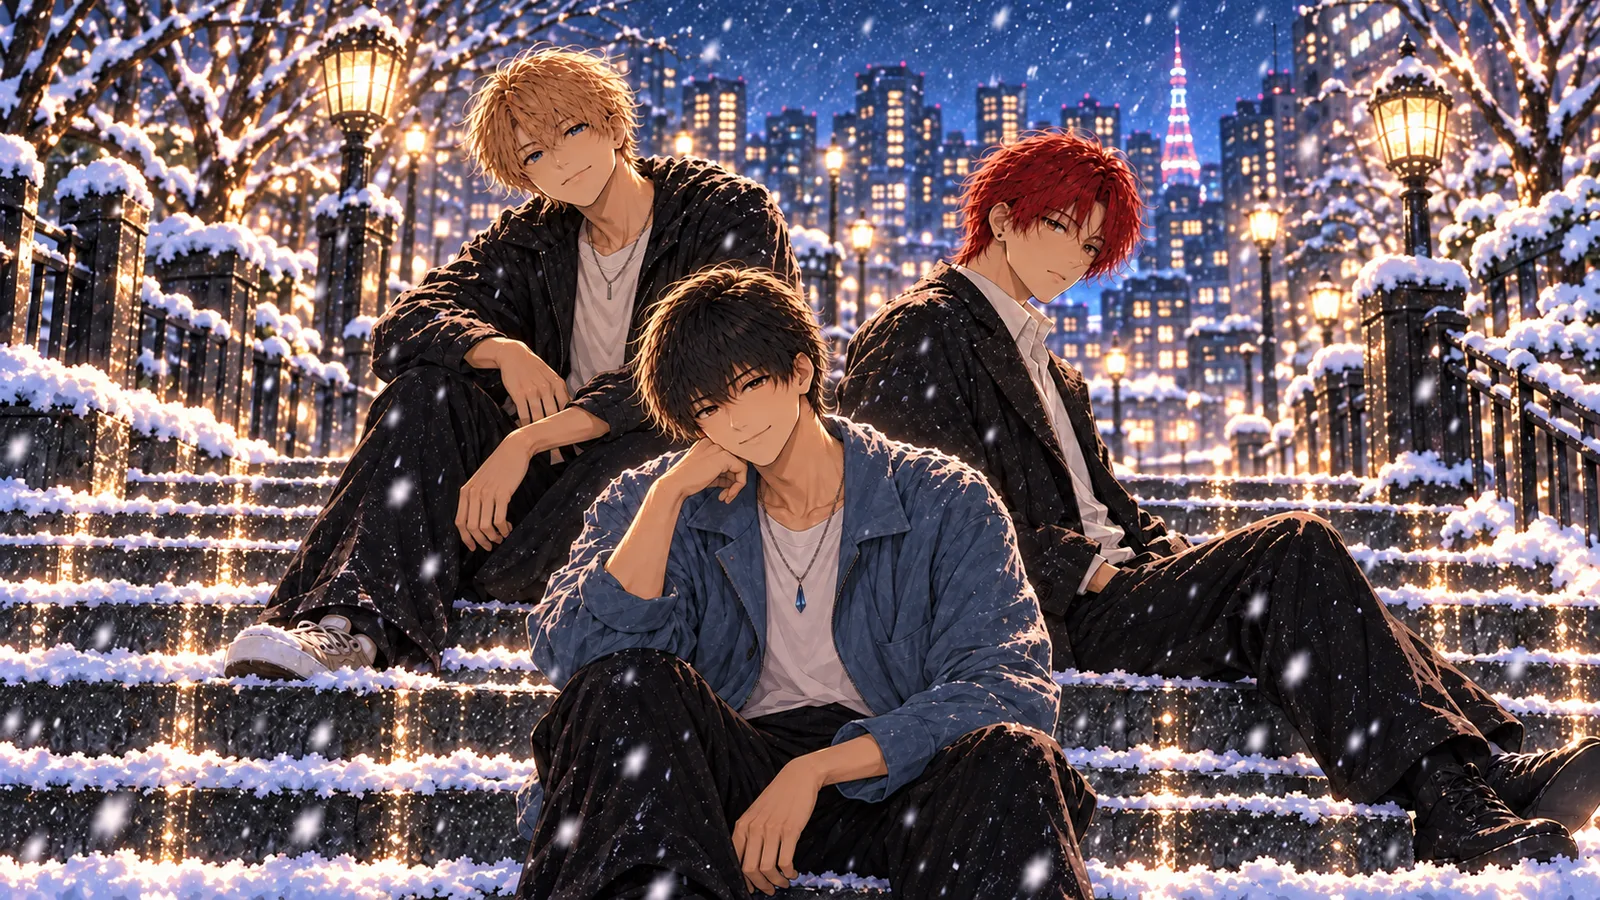
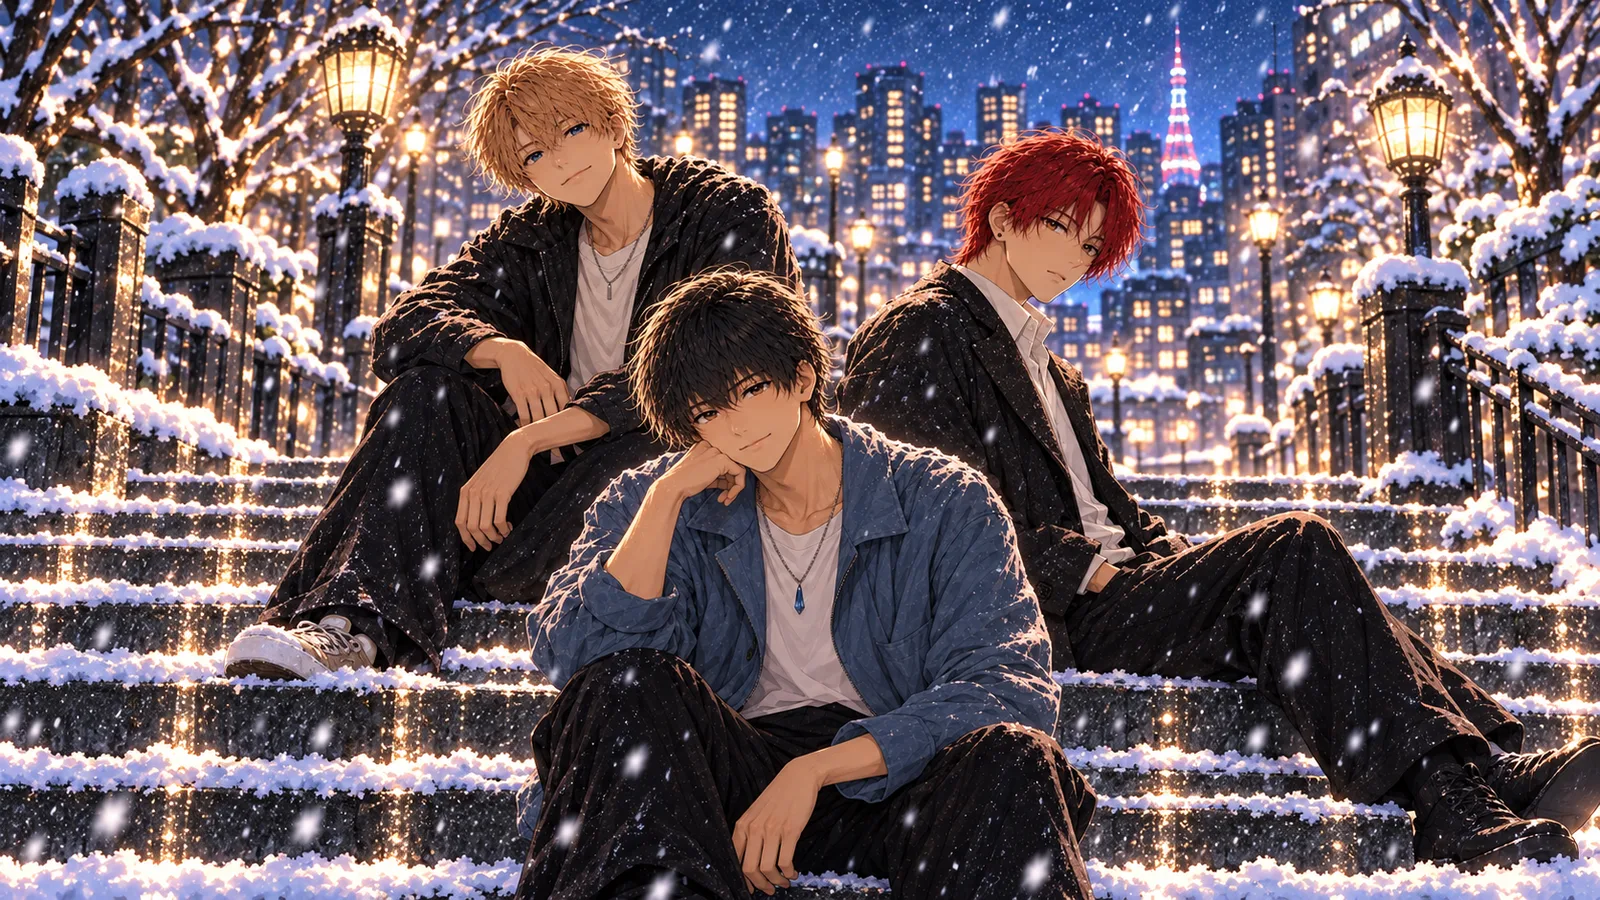
Snow flakes の紹介画像を別カットに差し替え
Claude-Session: https://claude.ai/code/session_01FdSiFjHcZ8mCQ1VVEhWYsP

diff --git a/site/site-data.js b/site/site-data.js
@@ -36,7 +36,7 @@
     { id: 'snowflakes', status: 'public', featured: true, order: 1,
       title: 'Snow flakes', kana: 'スノーフレークス', kind: '連載小説・シリーズ', page: 'stories/snowflakes/',
       lead: '約束なんてしていない。それでも、三人の音は続いていく。',   // 2026-10-28 ユーザー指定の紹介文の冒頭（2026-10-29「高校時代に始まったバンド…」は一覧から外す指示）（全文は stories/snowflakes/ の冒頭）
-      image: 'img/works/snowflakes.webp', imageSpec: '1600×900（16:9）',   // 2026-11-01 ユーザー指定のイラスト（雪の階段に座る三人・元画像 ⑥画像データ/7db91bf1-….png）に差し替え。2026-10-28 ユーザー指定のイラストに差し替え（元画像は制作用の保管場所。対応は引き継ぎ資料）。旧：仮の Kindle 1巻表紙 snowflakes_ad.webp（ファイルは残している）
+      image: 'img/works/snowflakes.webp', imageSpec: '1600×900（16:9）',   // 2026-11-01 ユーザー指定のイラスト（雪の階段に座る三人・元画像 ⑥画像データ/c759232a-….png。同日 7db91bf1-….png から差し替え）に差し替え。2026-10-28 ユーザー指定のイラストに差し替え（元画像は制作用の保管場所。対応は引き継ぎ資料）。旧：仮の Kindle 1巻表紙 snowflakes_ad.webp（ファイルは残している）
       serials: [{ label: '小説家になろう', url: NAROU + 'n9009lo/', ncode: 'n9009lo', note: '毎日21時更新' }],
       artists: ['snowflakes'] },
     { id: 'kamisama', status: 'public', featured: true, order: 2,
